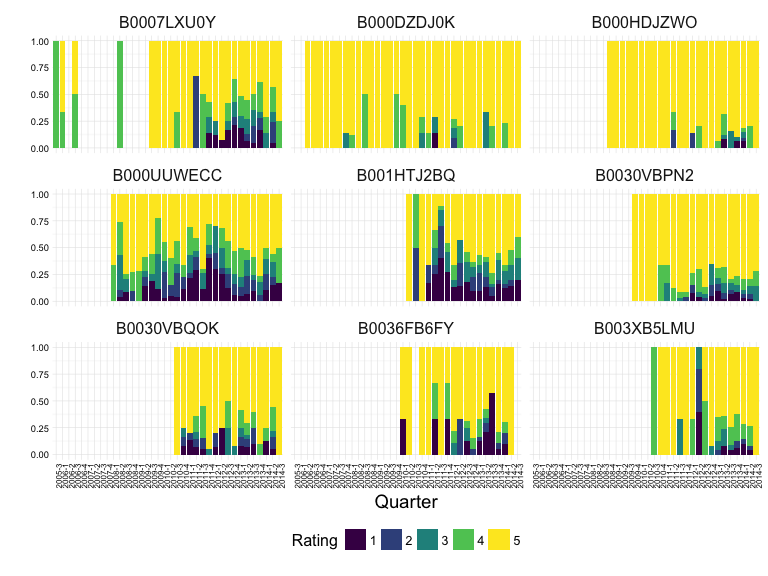
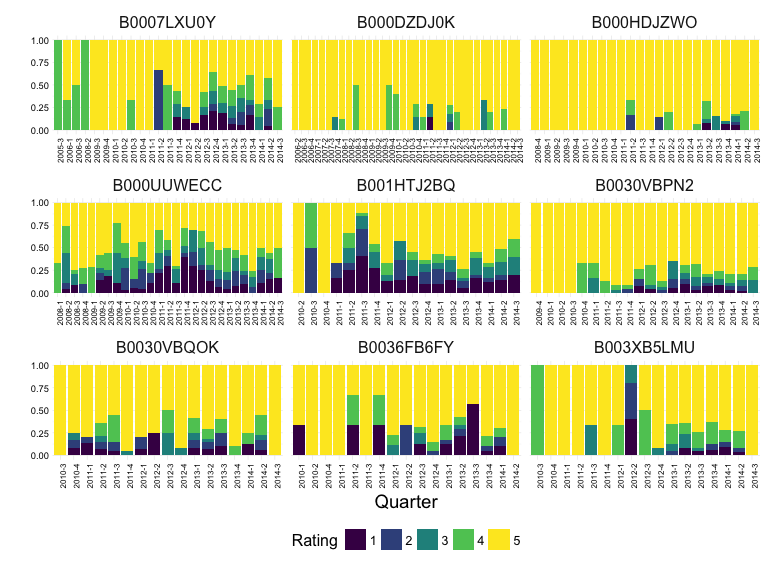
Remove giant figure -- too big to be useful

diff --git a/notebooks/review_summary_vis.md b/notebooks/review_summary_vis.md
@@ -193,15 +193,16 @@ top_asins_ratings  <- amz_clean %>%
          overall = as.character(overall)) %>%
   group_by(year, quarter, asin, overall) %>%
   tally() %>%
-  mutate(newdate = paste(year, quarter, sep = "-"))
+  mutate(newdate = paste(year, quarter, sep = "-")) %>%
+  left_join(recalled, by = "asin")
 ```
 
 Visualize quarterly rating distribution for the 9 most reviewed recalled products.
 
 ``` r
 ggplot(top_asins_ratings, aes(x = newdate, y = n, fill = overall)) +
-  geom_bar(position = "fill", stat = "identity") + 
-  facet_wrap(~ asin) +
+  geom_bar(position = "fill", stat = "identity") +
+  facet_wrap(~ asin, scales = "free_x") +
   scale_fill_viridis(discrete = TRUE) +
   theme(axis.text.x = element_text(size = 6, angle = 90, margin = margin(t = -12)),
         axis.text.y = element_text(size = 7, margin = margin(r = -12)),
@@ -212,34 +213,3 @@ ggplot(top_asins_ratings, aes(x = newdate, y = n, fill = overall)) +
 ```
 
 ![](../figs/quarterly-rating-dist-recalled-1.png)
-
-Visualize monthly rating distribution for all recalled products with recall date overlaid.
-
-``` r
-## Join recalled ASINs + dates with reviews data
-joined_asin_recall <- amz_clean %>%
-  filter(recall == "Recalled") %>%
-  mutate(month = month(date)) %>%
-  group_by(asin, year, month, overall) %>%
-  tally() %>%
-  mutate(newdate = as.Date(paste(year, month, "01", sep = "-"))) %>%
-  left_join(recalled, by = "asin") %>%
-  mutate(overall = as.character(overall))
-
-## Stacked bar chart with recall date overlaid
-ggplot(joined_asin_recall, aes(x = newdate, y = n, fill = overall)) +
-  geom_bar(position = "fill", stat = "identity") +
-  geom_vline(aes(xintercept = as.numeric(initiation_date)),
-             linetype = 4, color = "red") +
-  facet_wrap(~ asin, scales = "free_x", ncol = 3) +
-  scale_fill_viridis(discrete = TRUE) +
-  theme(axis.text.x = element_text(size = 6, angle = 90, margin = margin(t = -12)),
-        axis.text.y = element_text(size = 7, margin = margin(r = -12)),
-        strip.text = element_text(size = 10),
-        legend.position = "bottom") +
-  labs(x = "Quarter",
-       y = "",
-       fill = "Rating")
-```
-
-![](../figs/monthly-rating-dist-with-recall-1.png)
